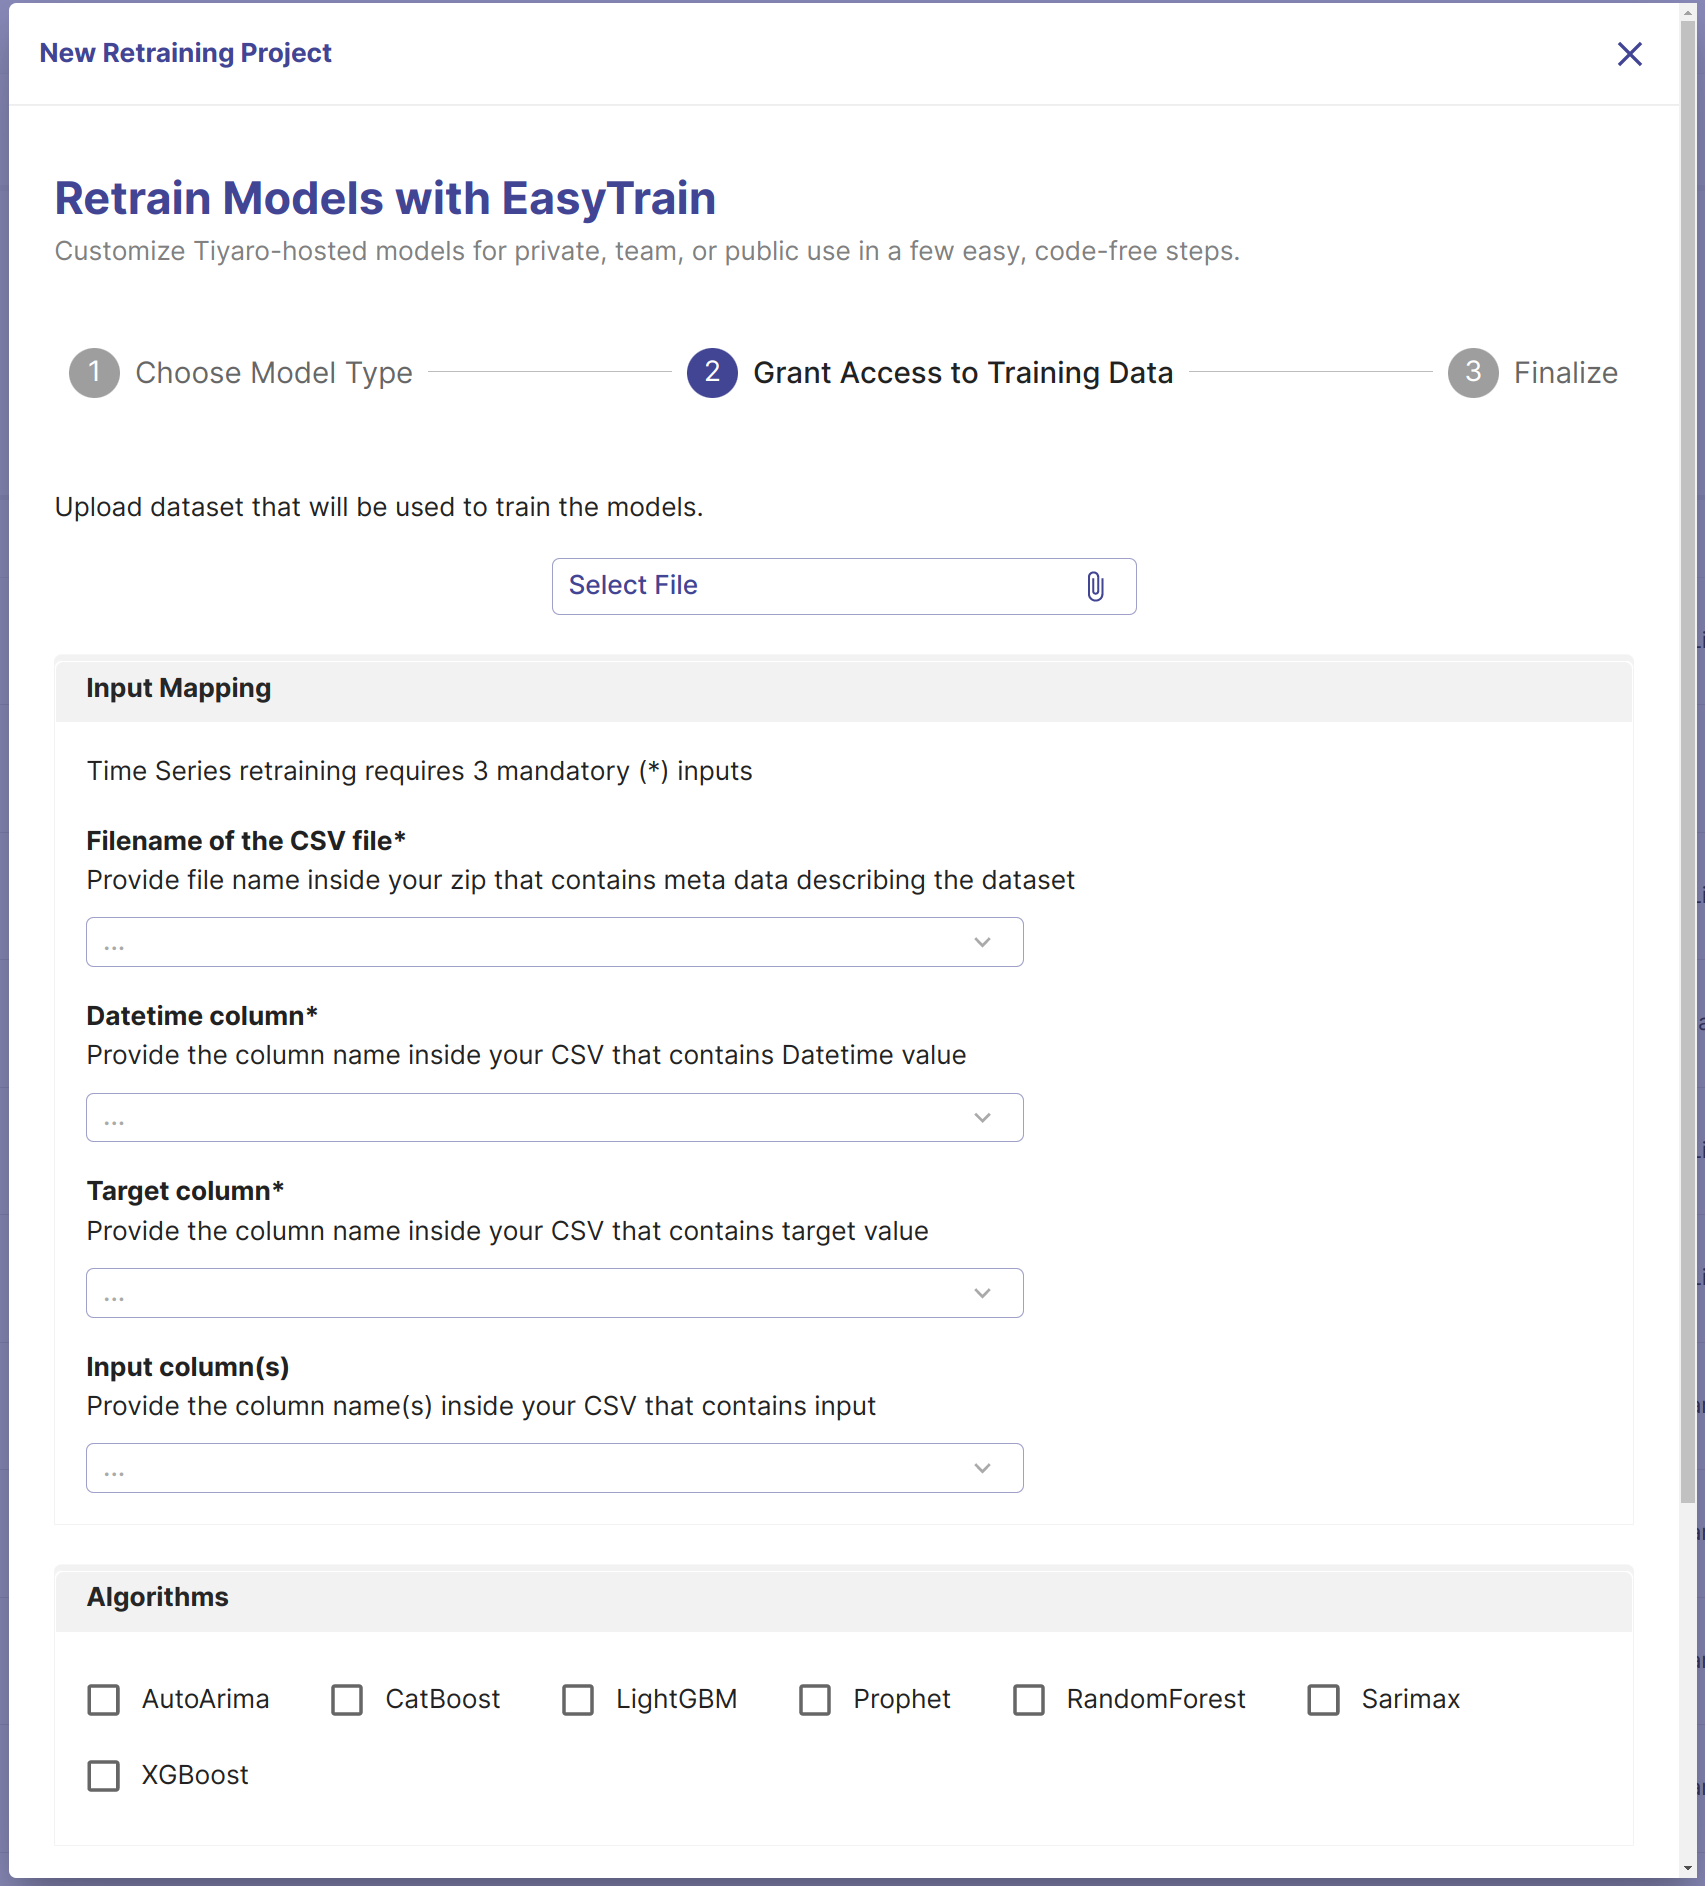
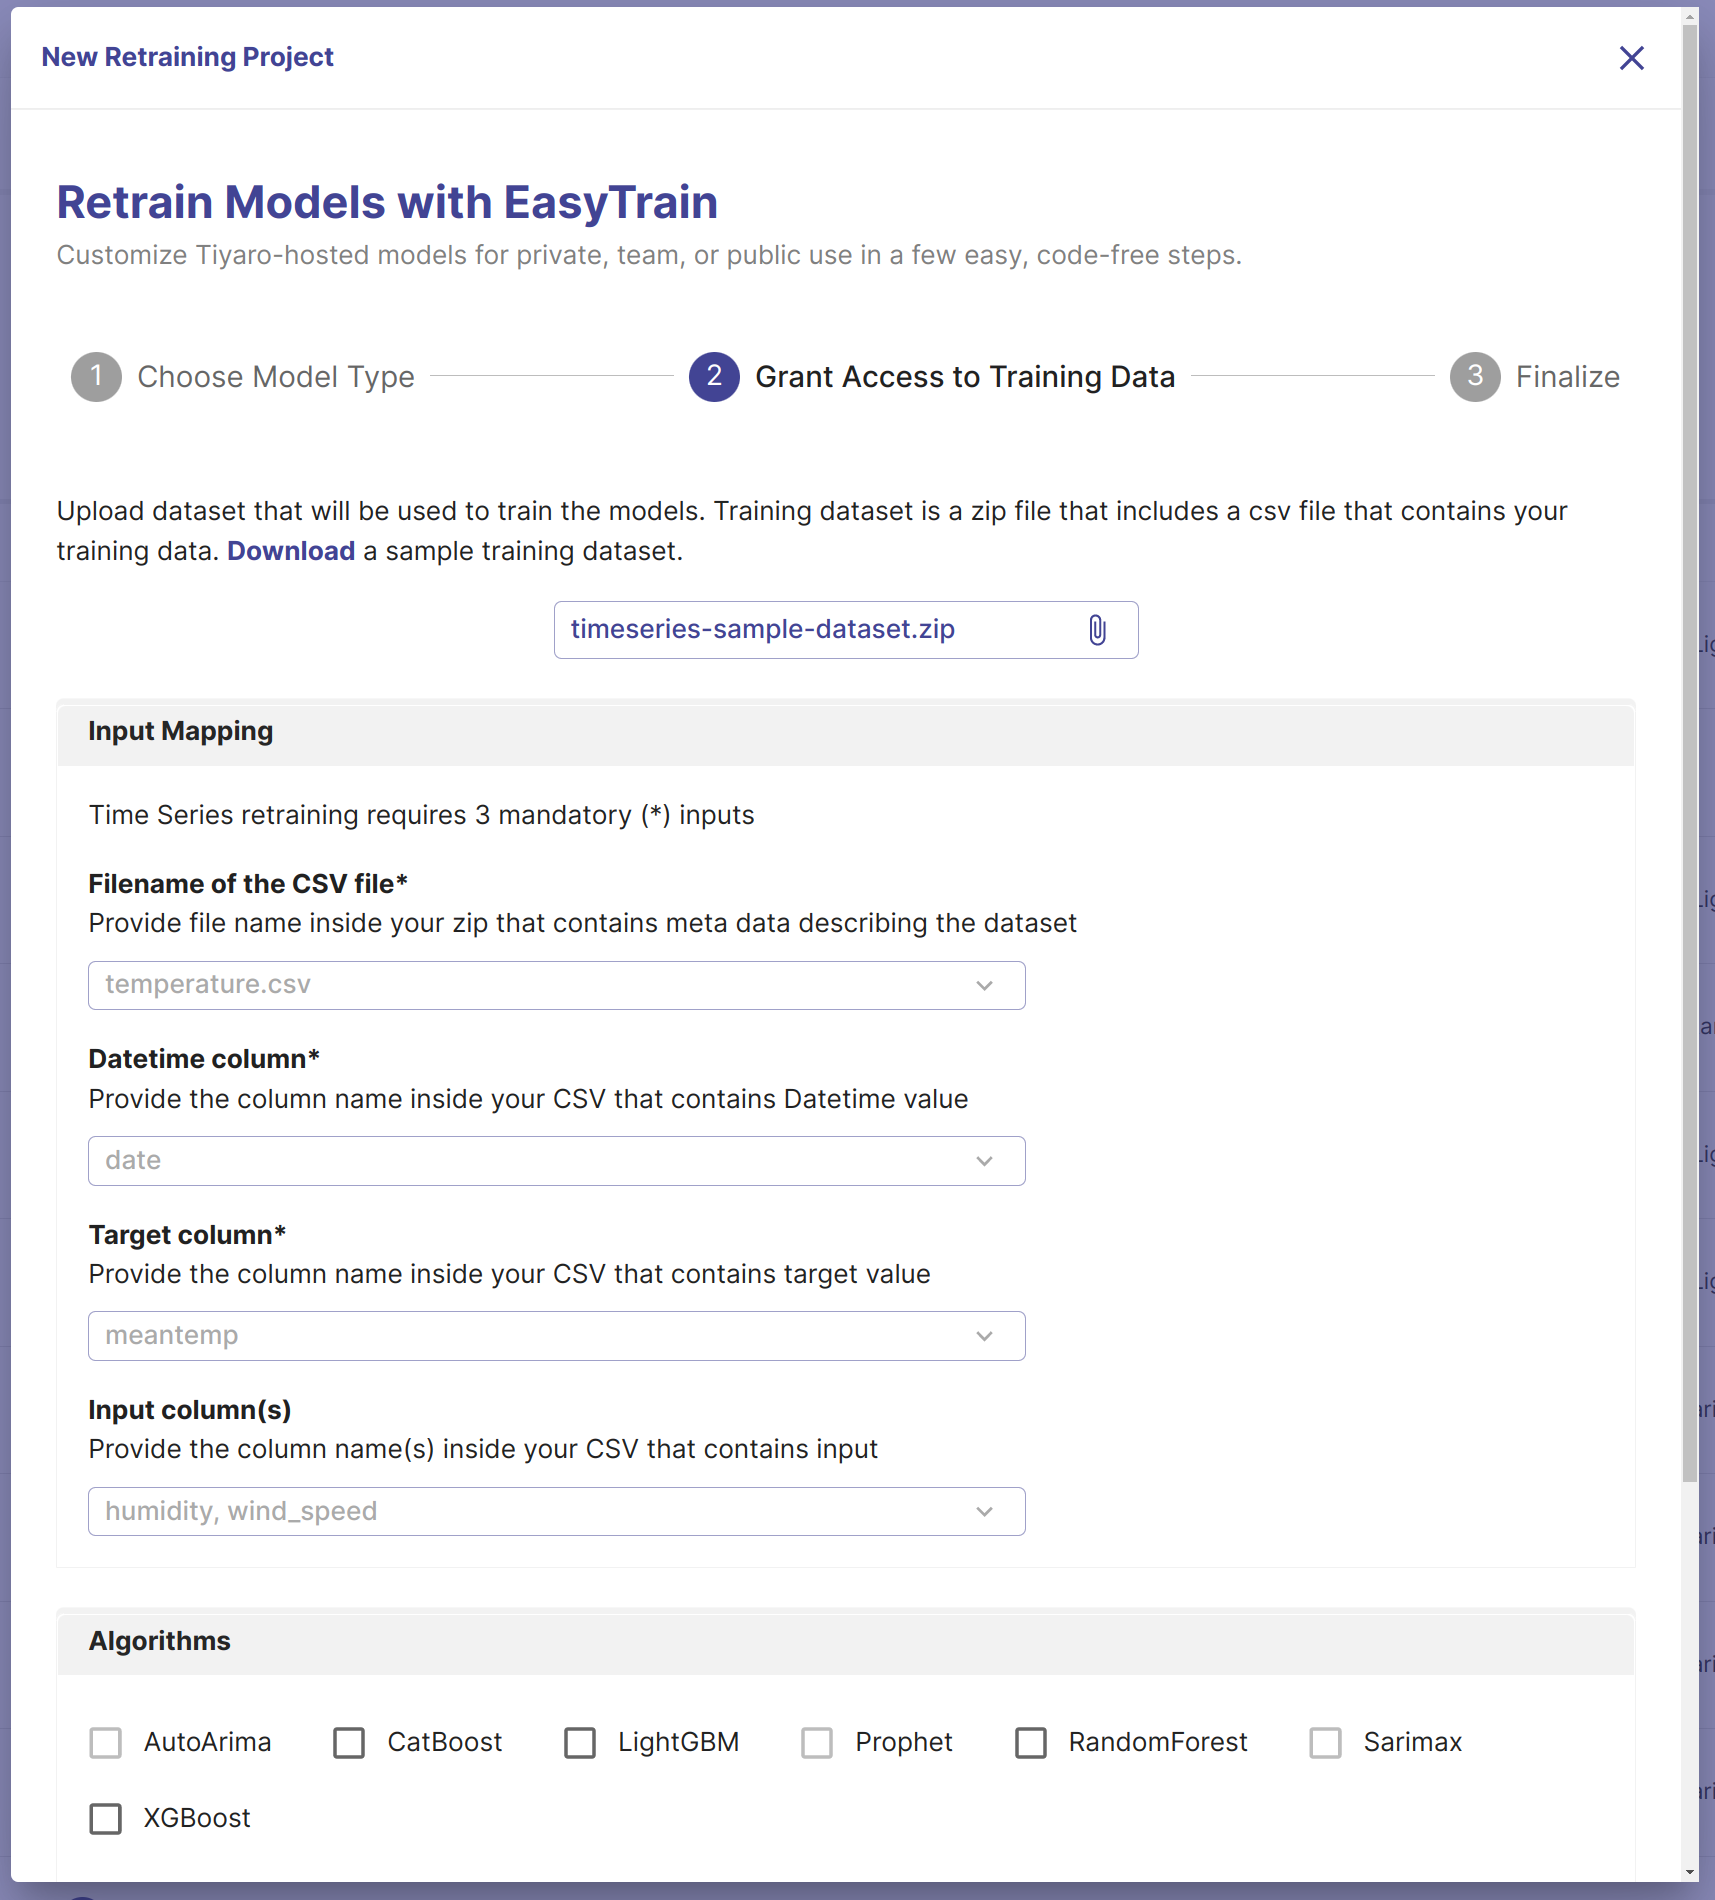
Updated screenshots for timeseries

diff --git a/docs/source/timeseries.rst b/docs/source/timeseries.rst
@@ -48,14 +48,14 @@ training the models is shifted from the user to the EasyTrain system.
 
 How to train your custom timeseries predictive models
 -----------------------------------------------------
-1. Find the 'timeseries' base model.
+1. Find the **Timeseries** base model.
 2. Retrain or Customize the base model with your training data
 
 
 --------------------------------
-Find the 'timeseries' base model
+Find the *Timeseries* base model
 --------------------------------
-Simply type 'timeseries' or the name of any of the algorithms from above .e.g. prophet, autorarima in the Search box. 
+Simply search for 'timeseries' or the name of any of the models from above .e.g. prophet, autorarima in the Model Explorer.
 
 .. image:: timeseriesbase.png
 
@@ -83,7 +83,7 @@ Second step, provide your training data.
 Format of the expected training dataset
 +++++++++++++++++++++++++++++++++++++++
 
-The training data that needs to be provided needs to be a zip file. Here is a `sample dataset <https://public-model-demo.s3.us-west-2.amazonaws.com/timeseries-sample-dataset.zip>`_ 
+The training data needs to be packaged as a zip file. Here is a `sample dataset <https://public-model-demo.s3.us-west-2.amazonaws.com/timeseries-sample-dataset.zip>`_ 
 that you can download to inspect its format and structure. Lets look at the structure of this sample dataset to understand the expected format.
 
 .. code-block:: bash
@@ -124,7 +124,7 @@ Last step, Finish.
 
 .. image:: timeseriesfinish.png
 
-Once you click Finish the retraining job is kicked off. It typically takes 10-40 minutes to retrain a model depending on the size of your training datasaet and the number of algorithms/models that you are training.
+Once you click **Submit** the retraining job is kicked off. It typically takes 10-40 minutes to retrain a model depending on the size of your training datasaet and the number of algorithms/models that you are training.
 
 Retraining jobs
 +++++++++++++++
